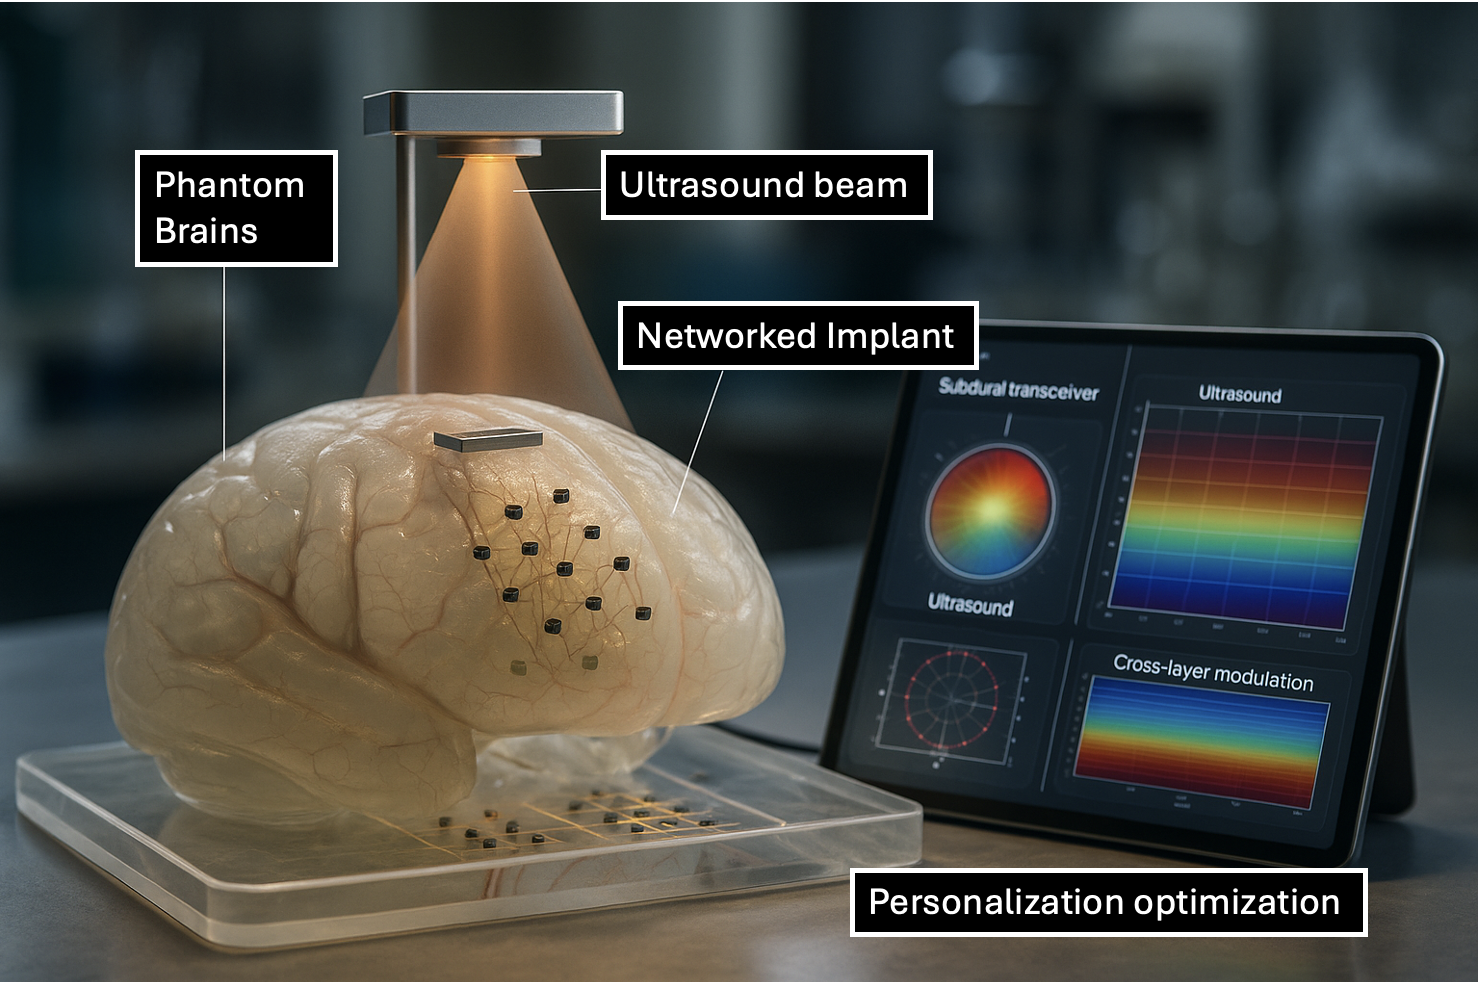
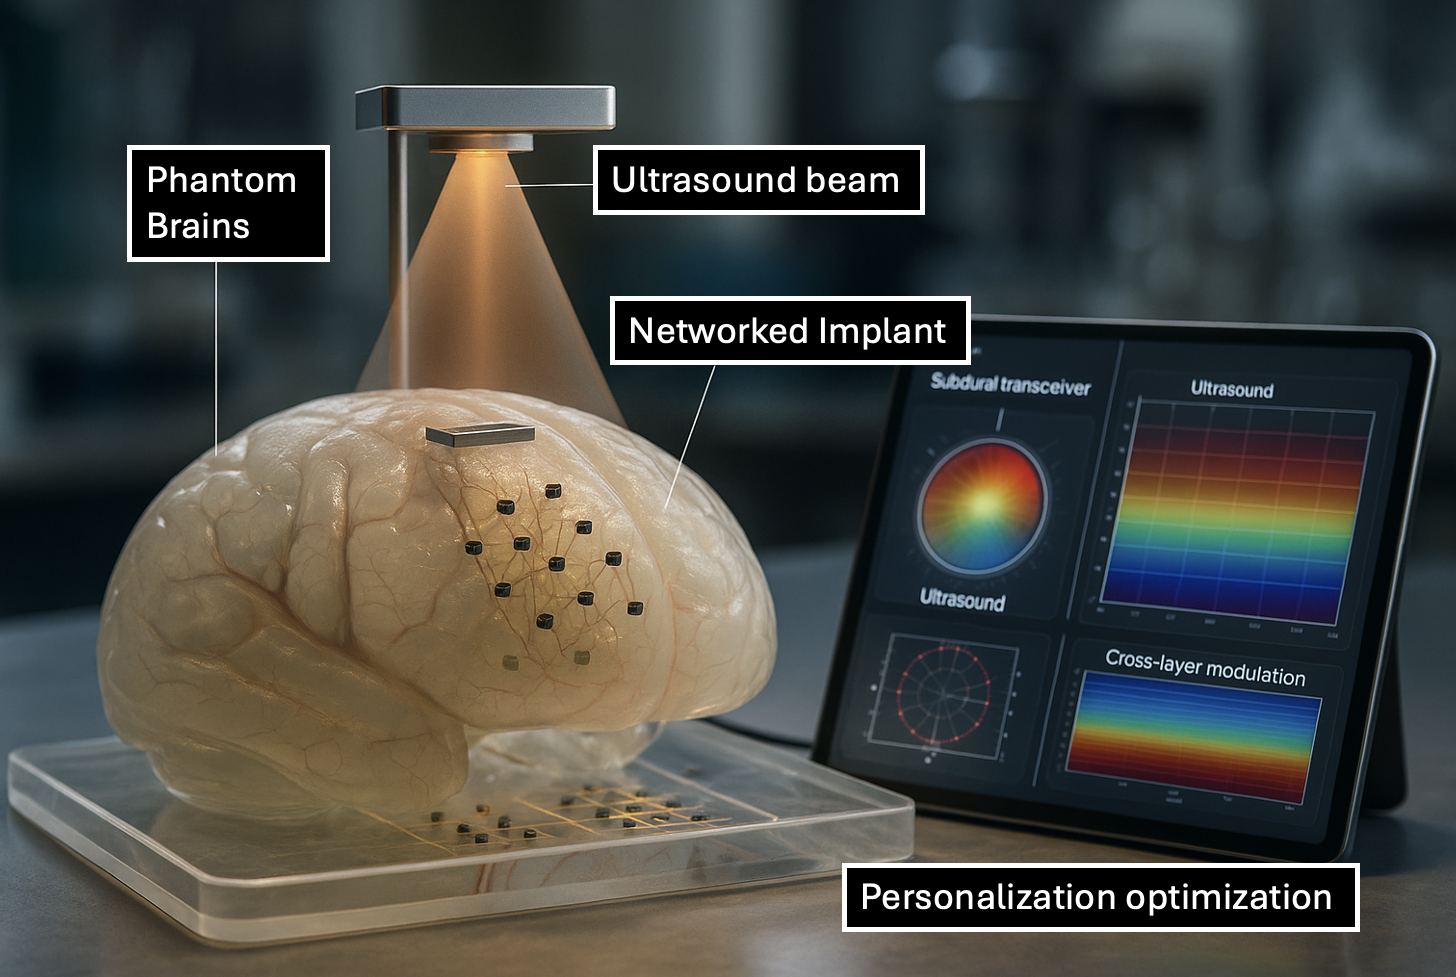
update fix

diff --git a/research.html b/research.html
@@ -86,8 +86,8 @@
                       explores how
                       biological systems make decisions and how we can guide them. Our goal is to create living systems that can
                       support drug delivery,
-                      tissue repair, and new forms of bio-electronic communication—always with a strong focus on safety, ethics,
-                      and real-world impact.
+                      tissue repair, and new forms of bio-electronic communication—always with a strong focus on biosafety, personalization,
+                      and biosecurity.
                     </p>
                   </div>
                 </div>
